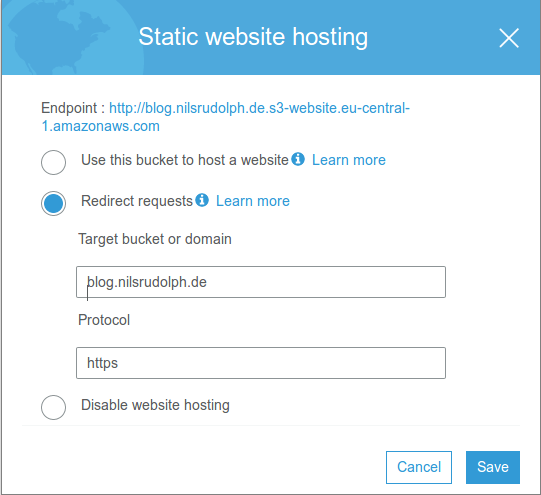
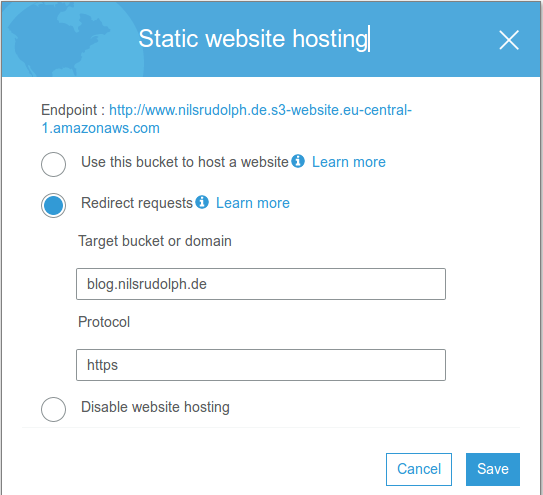
Finished route54url posts

diff --git a/content/posts/route53url.md b/content/posts/route53url.md
@@ -1,7 +1,6 @@
 ---
 title: "Redirect with Amazon Route 53 DNS Service"
 date: 2018-12-23T19:25:26+01:00
-draft: true
 featuredImg: ""
 tags: 
   - aws
@@ -9,16 +8,20 @@ tags:
   - dns 
 ---
 
-While creating my blog I stumbled accross the problem to redirect users from my domains to my blog. 
-I wanted to redirect [www.nilsrudolph.de](https://www.nilsrudolph.de) and [nilsrudolph.de](https://nilsrudolph.de) to [blog.nilsrudolph.de](https://blog.nilsrudolph.de).
+While creating my blog I stumbled across the problem to redirect users from my domains to my blog. 
+I wanted to redirect [www.nilsrudolph.de](http://www.nilsrudolph.de) and [nilsrudolph.de](http://nilsrudolph.de) to [blog.nilsrudolph.de](https://blog.nilsrudolph.de).
 
-Some DNS services allow such a feature via an URL record but this is not an official record and not supported by Route 53.
-But by using the Amazon S3 service you can archive the same result.
-Create a S3 bucket, choose some name and keep all default settings. After you created the S3 bucket go to the bucket and open properties and choose "Static website hosting". There you can configure a "Redirect request".
+Some DNS services allow such a feature via an URL record but this is not an official record and not supported by Amazons Route 53.
 
-![Static Website Hosting](/img/posts/static-website-hosting.png)
+But by using the Amazon S3 in combination with the Route 53 service you can archive the same result.
 
-Now you can add an A record for your domain in Route 53. Set "Alias" to "yes" and choose your new S3 bucket. 
+You need to create a S3 bucket with web-hosting enabled which does the redirect and then create a DNS A record which points to the S3 bucket.
+
+First create a S3 bucket, the name has to be the same as the domain you want to redirect from, e.g. [www.nilsrudolph.de](http://www.nilsrudolph.de) and keep all default settings. After you created the S3 bucket go to the bucket and open properties and choose "Static website hosting". There you can configure a "Redirect request".
+
+![Static Website Hosting](/img/posts/static-web-hosting.png)
+
+Now you can add an A record for your domain in Route 53. Set "Alias" to "yes" and choose your new S3 bucket as "Alias Target". 
 
 Note: You have to wait a some time after you create the S3 Bucket to choose it as alias in Route 53.
 
